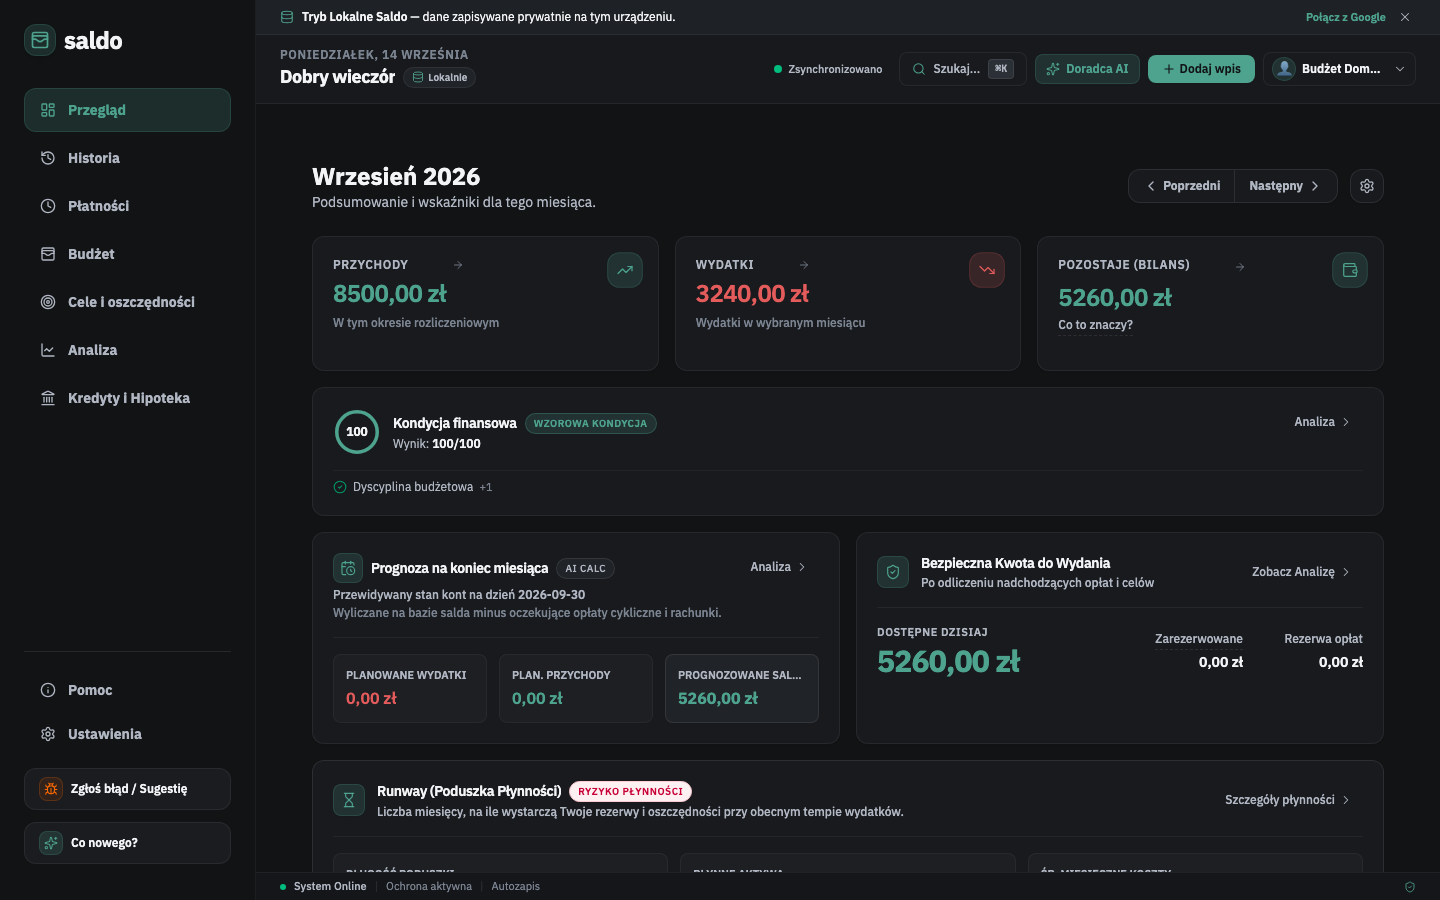
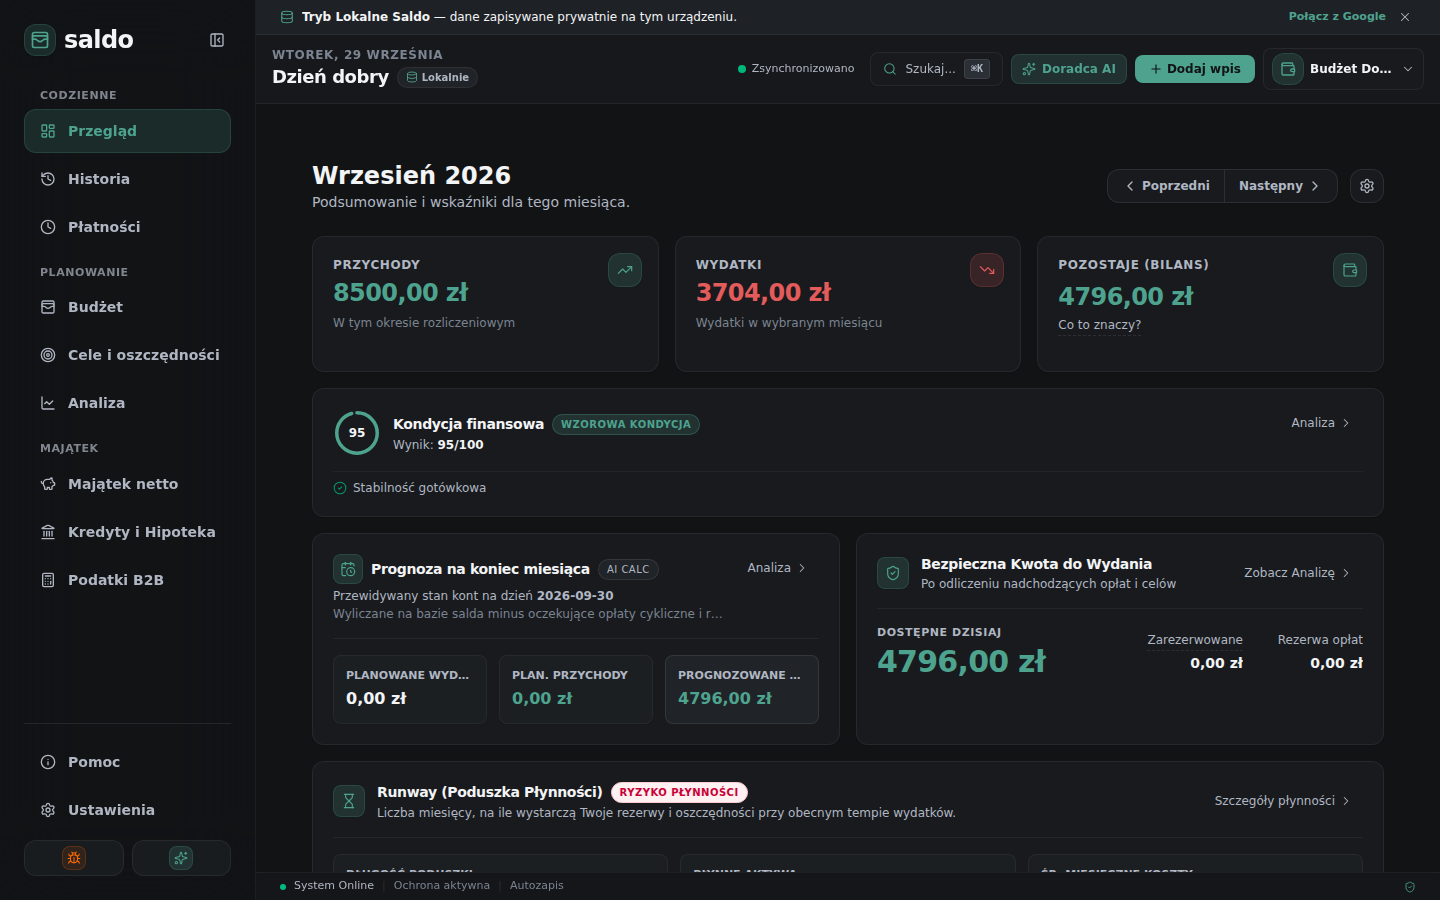
docs: nowy zrzut pulpitu (nowe menu), poprawione nazwy plików Windows, opis importu i doradcy AI w README
Claude-Session: https://claude.ai/code/session_01VRyYsfcfArbkGCHVxLpvrA

diff --git a/README.md b/README.md
@@ -16,8 +16,8 @@ Najnowsza wersja: **[GitHub Releases → Latest](https://github.com/Silvanion/sa
 | --- | --- |
 | macOS — Apple Silicon (M1–M4) | `Saldo-<wersja>-arm64.dmg` |
 | macOS — Intel | `Saldo-<wersja>.dmg` |
-| Windows — instalator | `Saldo.Setup.<wersja>.exe` |
-| Windows — wersja przenośna | `Saldo.<wersja>.exe` |
+| Windows — instalator | `Saldo-Setup-<wersja>.exe` |
+| Windows — wersja przenośna | `Saldo-<wersja>-portable.exe` |
 
 ### Pierwsze uruchomienie na macOS
 
@@ -27,11 +27,11 @@ Wydania nie są jeszcze notaryzowane przez Apple (podpis ad-hoc), dlatego przy p
 
 - **Local-First od pierwszego uruchomienia** — kreator onboardingu tworzy lokalny profil (nazwa, wektorowy awatar, waluta, opcjonalny PIN) bez konta Google czy e-maila; logowanie w chmurze jest dostępne później, wyłącznie w Ustawieniach, jako opcja.
 - **Pulpit** — bieżący bilans, trendy wydatków, skrócony przegląd nadchodzących płatności i celów.
-- **Transakcje i budżet** — kategorie z limitami, import wyciągów (CSV/PDF, w tym mBank), wykrywanie duplikatów.
+- **Transakcje i budżet** — kategorie z limitami, import wyciągów CSV/PDF (dedykowane parsery Alior Banku i Zen sprawdzone na prawdziwych wyciągach, ogólne mapowanie kolumn dla pozostałych banków, m.in. mBank), ostrzeżenia o przelewach własnych i operacjach na koncie kredytowym, wykrywanie duplikatów.
 - **Płatności cykliczne** — przypomnienia o terminach, natywne powiadomienia systemowe.
 - **Cele oszczędnościowe** — śledzenie postępu, scenariusze dojścia do celu.
 - **Portfel długów** — strategie spłaty (lawina/kula śnieżna), Kredyt Hipoteczny Pro (test warunków skrajnych KNF, wakacje kredytowe, raty malejące, monitoring LTV).
-- **Doradca AI (lokalny, Ollama)** — czat uziemiony w deterministycznym silniku finansowym aplikacji, może zaproponować i zapisać konkretny plan działania.
+- **Doradca AI (lokalny Ollama lub własny klucz Gemini/Claude)** — czat uziemiony w deterministycznym silniku finansowym aplikacji, może zaproponować i zapisać konkretny plan działania.
 - **Synchronizacja** — kopia zapasowa i synchronizacja przez Google Drive, eksport/import JSON.
 - **Bezpieczeństwo** — szyfrowanie profilu kluczem z PIN-u, prawdziwe odblokowanie Touch ID / Windows Hello (Keychain/DPAPI) na desktopie — dostępne od razu w kreatorze onboardingu i w ekranie wyboru profilu, automatyczna blokada po zablokowaniu ekranu.
 
@@ -39,7 +39,7 @@ Wydania nie są jeszcze notaryzowane przez Apple (podpis ad-hoc), dlatego przy p
 
 - Obserwowanie folderu z wyciągami (Ustawienia → Kopia i raporty): nowy plik CSV/PDF wywołuje powiadomienie systemowe, a import wymaga potwierdzenia w podglądzie.
 - Aktualizacje przez `electron-updater` — powiadomienie w aplikacji, pobranie dopiero po potwierdzeniu, ręczne sprawdzanie z menu i z widoku "Historia Zmian". Na macOS bez notaryzacji — przekierowanie do strony wydania.
-- Podpisywanie kodu w CI: Developer ID + notaryzacja (macOS) i code-signing (Windows) po dodaniu sekretów; bez nich build macOS jest podpisywany ad-hoc.
+- Podpisywanie kodu w CI: Developer ID + notaryzacja (macOS) po dodaniu sekretów; bez nich build macOS jest podpisywany ad-hoc. Podpisywanie wydań Windows jest na razie wstrzymane (instalator niepodpisany — SmartScreen może pokazać ostrzeżenie).
 - Ikona w tray z szybkim dodawaniem wydatku, dock badge, natywne powiadomienia, autostart z systemem.
 - Zapamiętywanie rozmiaru/pozycji okna, natywne okna dialogowe zapisu/odczytu kopii zapasowej.
 - Natywne menu kontekstowe (Wytnij/Kopiuj/Wklej, podpowiedzi pisowni) na każdym polu tekstowym, branded panel "O Programie".
